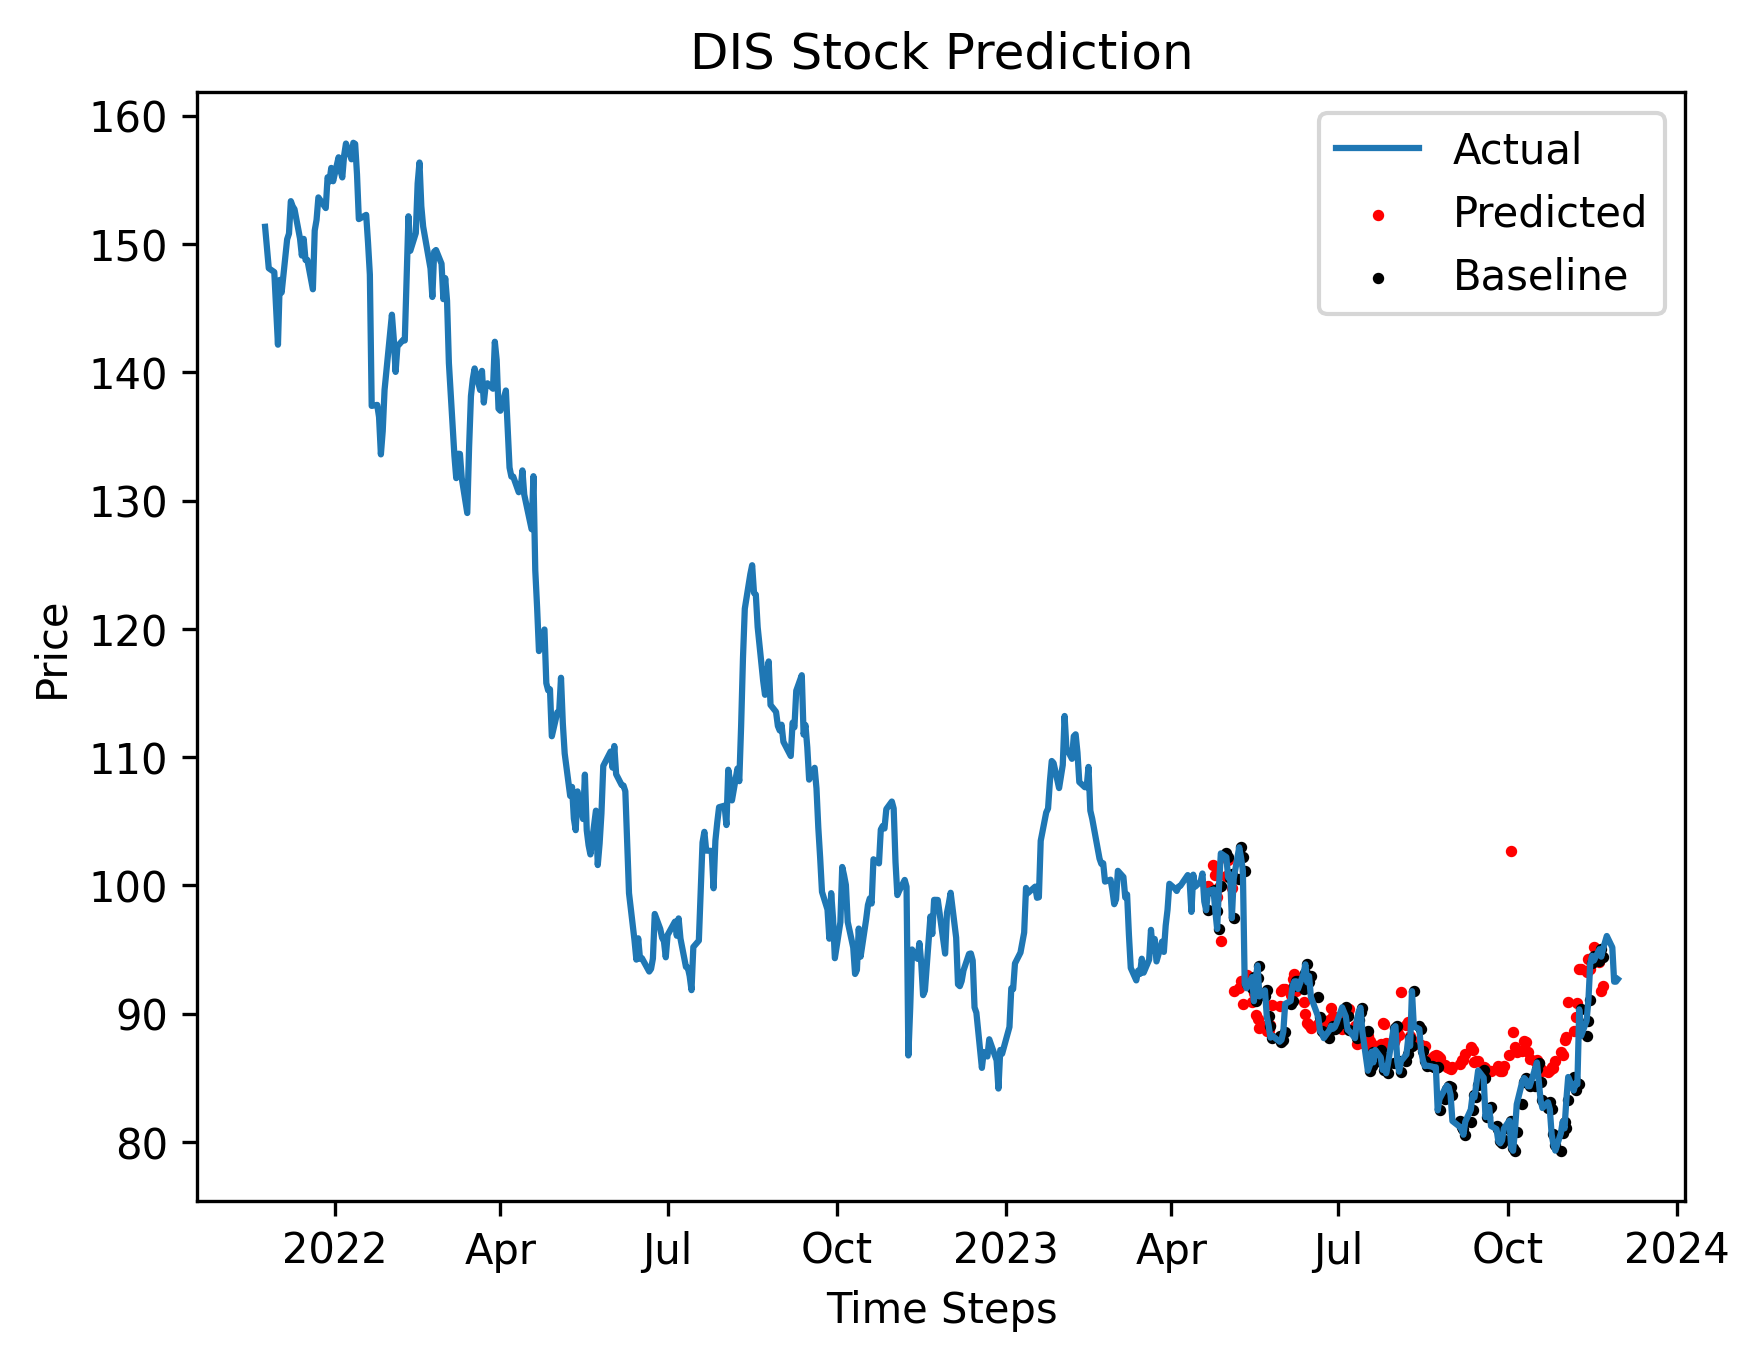
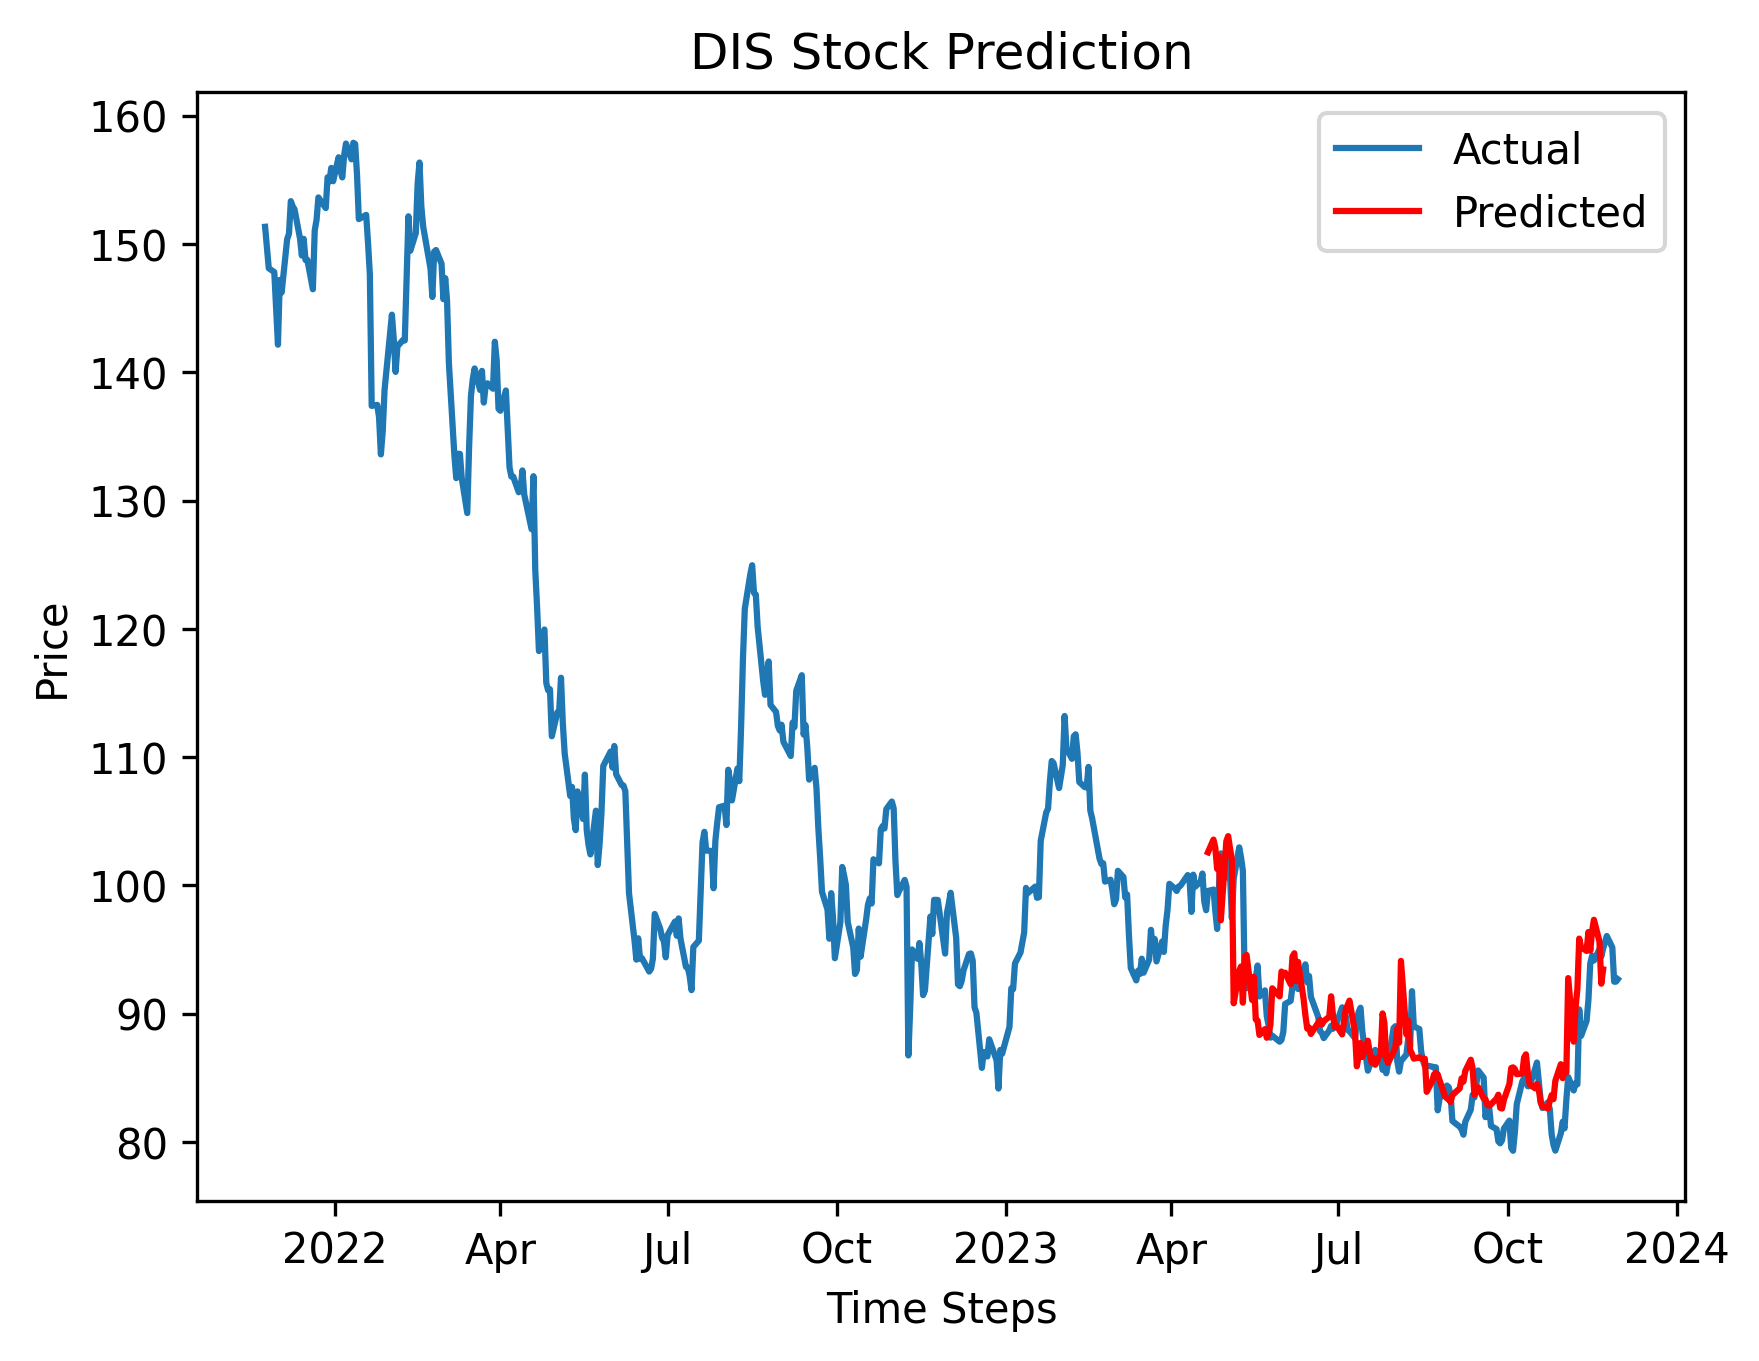
fixed 10 day prediction plot and ran everthing

Changed region(s): [[0.6754, 0.6172, 0.921, 0.8641], [0.8289, 0.1852, 0.9517, 0.2469], [0.7675, 0.1543, 0.8289, 0.1852]]

diff --git a/src/utils/test.py b/src/utils/test.py
@@ -110,8 +110,6 @@ for i, stock in enumerate(best_stocks):
     predicted_points_np = predicted_points.tolist()
 
     last_sequence = preprocess.get_last_sequence(data_path)
-    predicted_10_points = test_model_10day(model, last_sequence, scaler)
-
     # torch.tensor(
     #     [[0.9600],
     #      [0.9908],
@@ -123,6 +121,8 @@ for i, stock in enumerate(best_stocks):
     #      [0.8894],
     #      [0.8679],
     #      [0.8842]])
+
+    predicted_10_points = test_model_10day(model, last_sequence, scaler)
 
     # Plotting
     # Load the entire dataset (x and y values)
@@ -182,7 +182,7 @@ for i, stock in enumerate(best_stocks):
 
 # Plot 10 days from 30-11-2023
 
-    data = pd.read_csv('../datasets/stock_data_10_days/NVDA.csv')
+    data = pd.read_csv(f'../datasets/stock_data_10_days/{stock}.csv')
     data['Time'] = pd.to_datetime(data['Time'])  # Convert the 'Time' column to datetime objects
     x_values = data['Time'].values
     y_values = data['Close'].values
